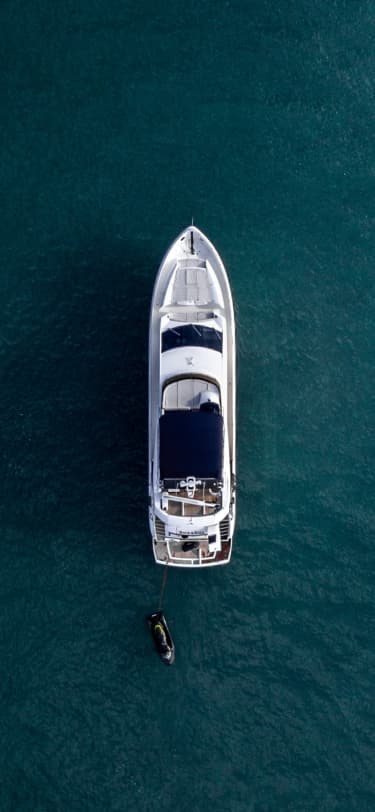
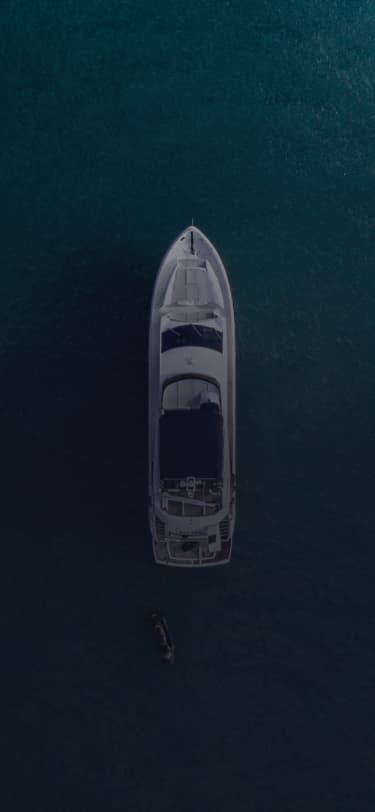
images changed

diff --git a/src/css/hero.css b/src/css/hero.css
@@ -1,11 +1,5 @@
 .hero {
-  background-image: linear-gradient(
-      360deg,
-      rgba(17, 19, 31, 0.8) 15.05%,
-      rgba(17, 19, 31, 0.8) 75.3%,
-      rgba(17, 19, 31, 0.8) 98.27%
-    ),
-    url("/images/hero/background-mob-@1x.jpg");
+  background-image: url("/images/hero/background-mob-@1x.jpg");
 
   padding: 260px 0 302px;
   min-width: 320px;
@@ -21,13 +15,7 @@
   (min-resolution: 192dpi),
   (min-resolution: 2dppx) {
   .hero {
-    background-image: linear-gradient(
-        360deg,
-        rgba(17, 19, 31, 0.8) 15.05%,
-        rgba(17, 19, 31, 0.8) 75.3%,
-        rgba(17, 19, 31, 0.8) 98.27%
-      ),
-      url("/images/hero/background-mob-@2x.jpg");
+    background-image: url("/images/hero/background-mob-@2x.jpg");
   }
 }
 .hero-logo {
@@ -79,13 +67,7 @@
 }
 @media (min-width: 768px) {
   .hero {
-    background-image: linear-gradient(
-        360deg,
-        rgba(17, 19, 31, 0.8) 15.05%,
-        rgba(17, 19, 31, 0.8) 75.3%,
-        rgba(17, 19, 31, 0.8) 98.27%
-      ),
-      url("/images/hero/background-tab-@1x.jpg");
+    background-image: url("/images/hero/background-tab-@1x.jpg");
     padding: 280px 0 282px;
     max-width: 768px;
   }
@@ -94,13 +76,7 @@
     (min-resolution: 192dpi),
     (min-resolution: 2dppx) {
     .hero {
-      background-image: linear-gradient(
-          360deg,
-          rgba(17, 19, 31, 0.8) 15.05%,
-          rgba(17, 19, 31, 0.8) 75.3%,
-          rgba(17, 19, 31, 0.8) 98.27%
-        ),
-        url("/images/hero/background-tab-@2x.jpg");
+      background-image: url("/images/hero/background-tab-@2x.jpg");
     }
   }
   .hero-logo {
@@ -129,13 +105,7 @@
     padding-right: 140px;
   }
   .hero {
-    background-image: linear-gradient(
-        360deg,
-        rgba(17, 19, 31, 0.8) 15.05%,
-        rgba(17, 19, 31, 0.8) 75.3%,
-        rgba(17, 19, 31, 0.8) 98.27%
-      ),
-      url("/images/hero/background-1280-@1x.jpg");
+    background-image: url("/images/hero/background-1280-@1x.jpg");
     padding: 235px 0 215px;
     max-width: 1280px;
   }
@@ -143,13 +113,7 @@
     (min-resolution: 192dpi),
     (min-resolution: 2dppx) {
     .hero {
-      background-image: linear-gradient(
-          360deg,
-          rgba(17, 19, 31, 0.8) 15.05%,
-          rgba(17, 19, 31, 0.8) 75.3%,
-          rgba(17, 19, 31, 0.8) 98.27%
-        ),
-        url("/images/hero/background-1280-@2x.jpg");
+      background-image: url("/images/hero/background-1280-@2x.jpg");
     }
   }
   .hero-logo {
@@ -159,26 +123,14 @@
 }
 @media screen and (min-width: 1440px) {
   .hero {
-    background-image: linear-gradient(
-        360deg,
-        rgba(17, 19, 31, 0.8) 15.05%,
-        rgba(17, 19, 31, 0.8) 75.3%,
-        rgba(17, 19, 31, 0.8) 98.27%
-      ),
-      url("/images/hero/background-1440-@1x.jpg");
+    background-image: url("/images/hero/background-1440-@1x.jpg");
     max-width: 1440px;
   }
   @media (min-device-pixel-ratio: 2),
     (min-resolution: 192dpi),
     (min-resolution: 2dppx) {
     .hero {
-      background-image: linear-gradient(
-          360deg,
-          rgba(17, 19, 31, 0.8) 15.05%,
-          rgba(17, 19, 31, 0.8) 75.3%,
-          rgba(17, 19, 31, 0.8) 98.27%
-        ),
-        url("../images/hero/background-1440-@2x.jpg");
+      background-image: url("../images/hero/background-1440-@2x.jpg");
     }
   }
 }

diff --git a/src/partials/hero.html b/src/partials/hero.html
@@ -8,7 +8,6 @@
       from our top-of-the-line yachts and embark on an unforgettable journey
       surrounded by breathtaking views and state-of-the-art amenities.
     </p>
-    <a href="#rentayacht" class="hero-btn">Yacht rental</a>
-    <div id="rentayacht"></div>
+    <a href="#rent-a-yacht" class="hero-btn">Yacht rental</a>
   </div>
 </section>
